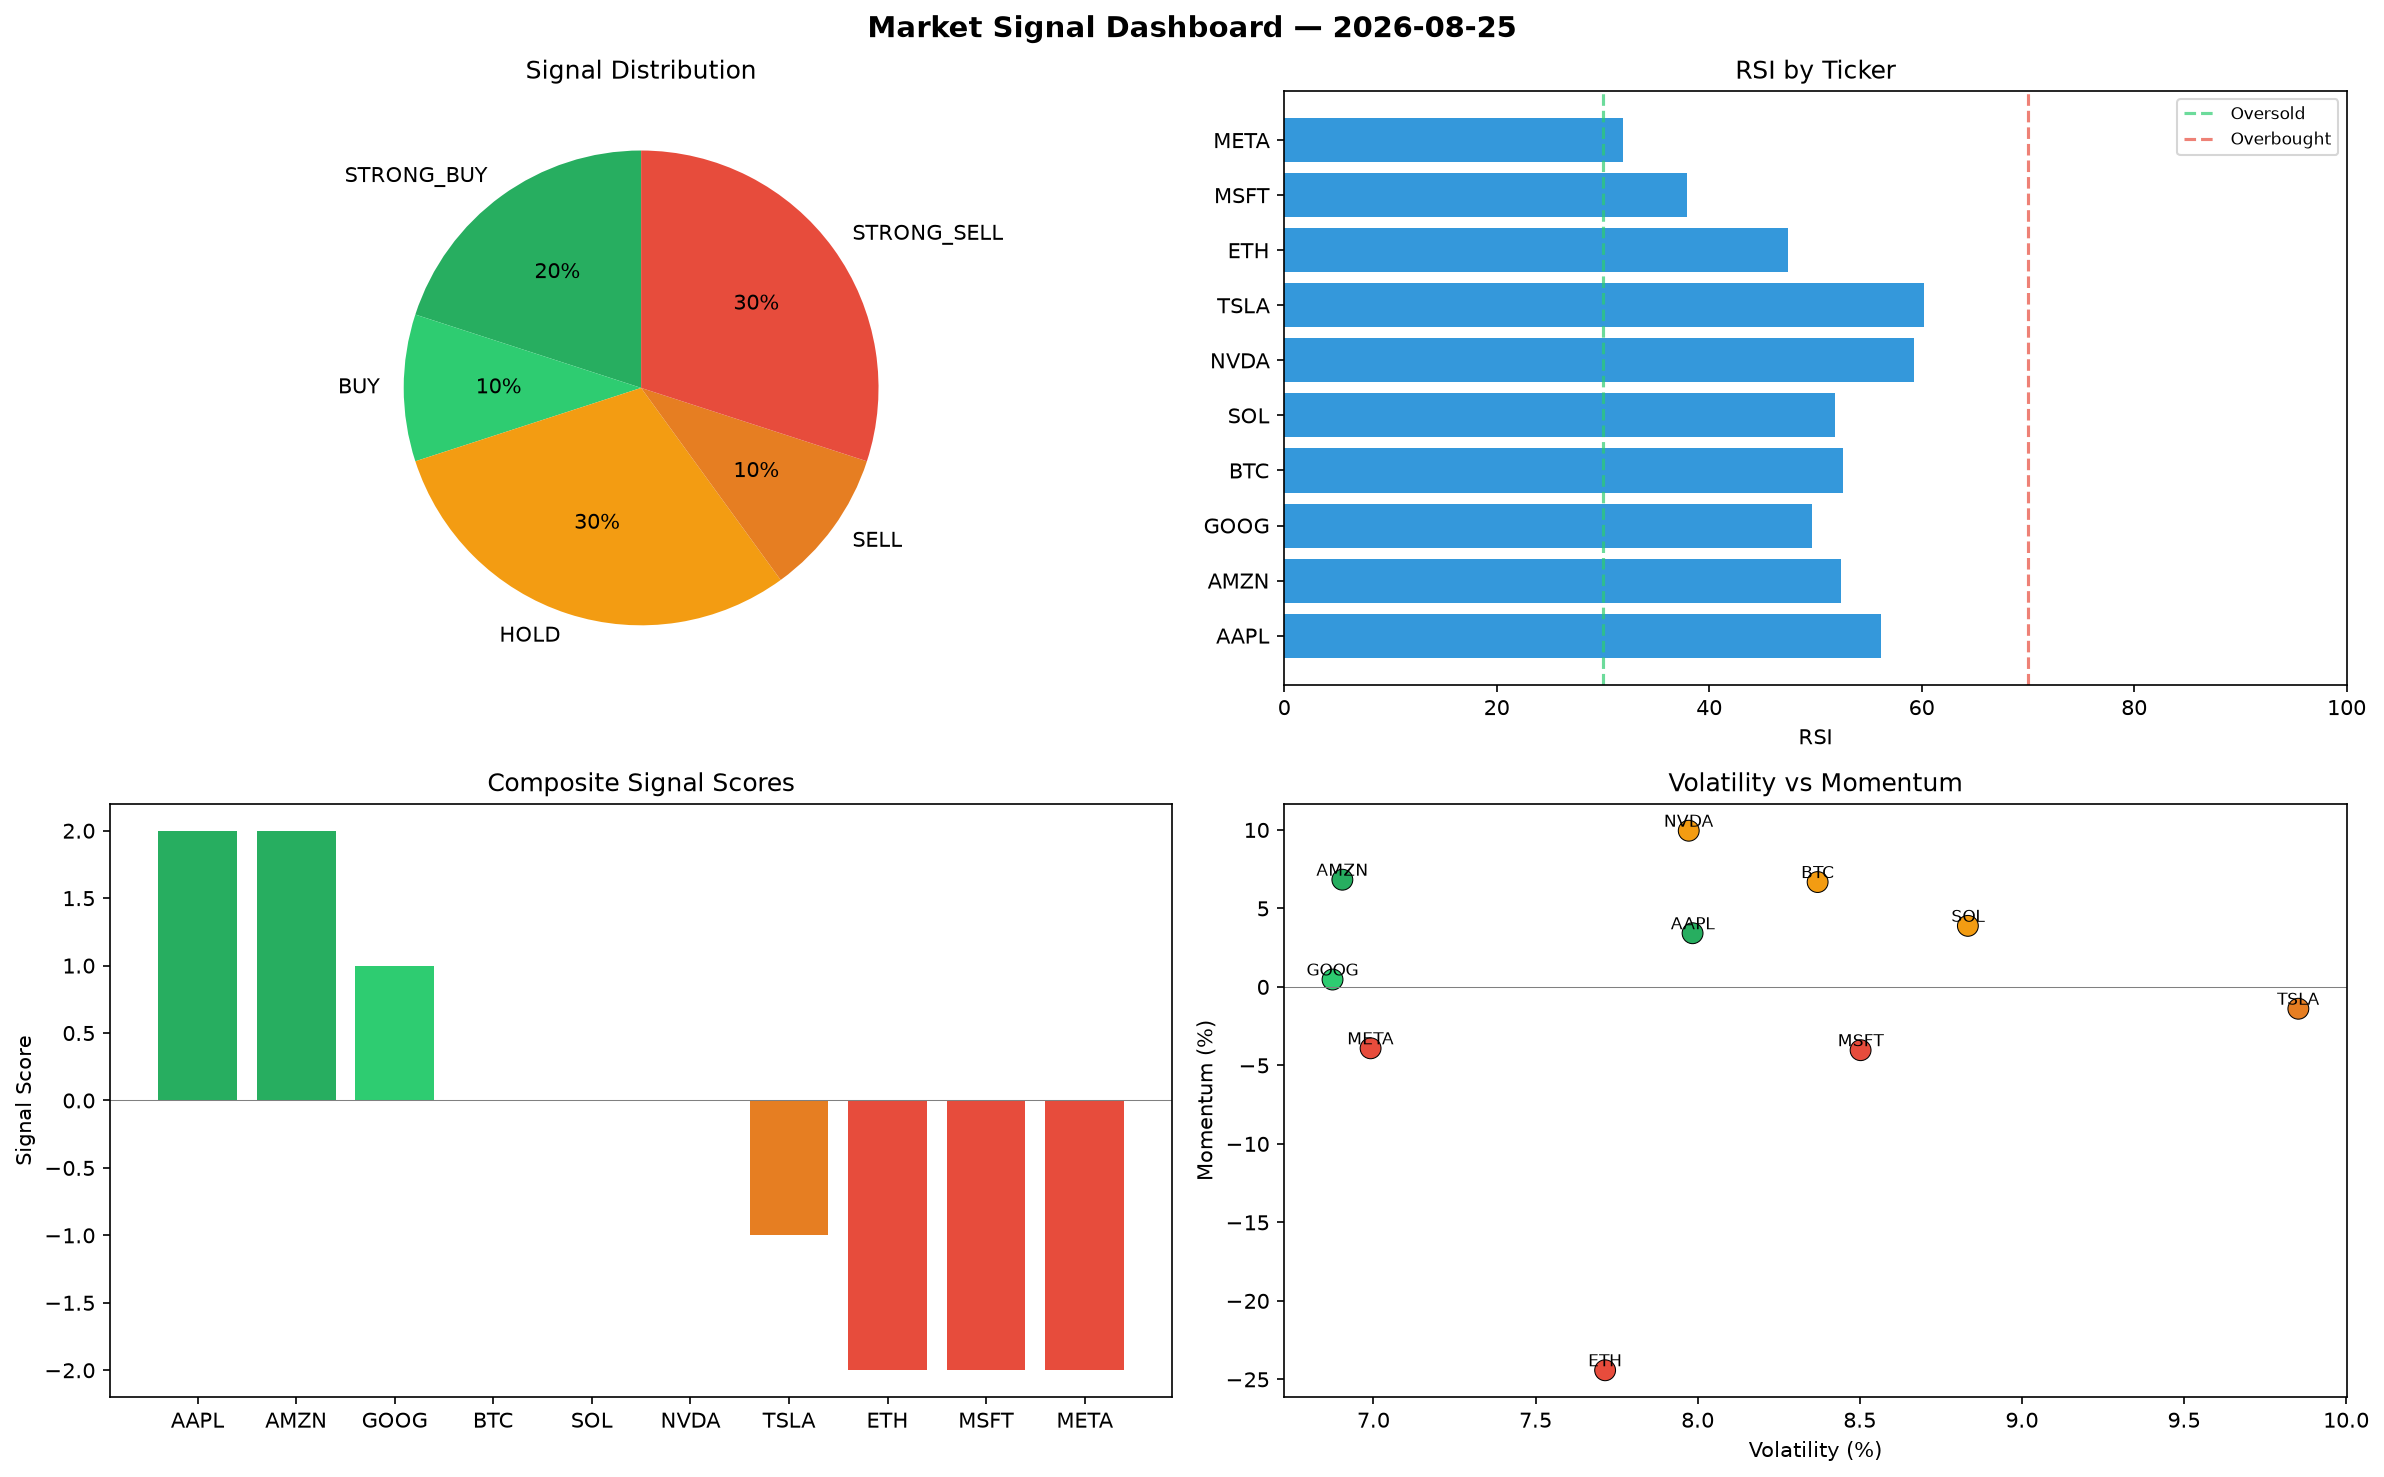
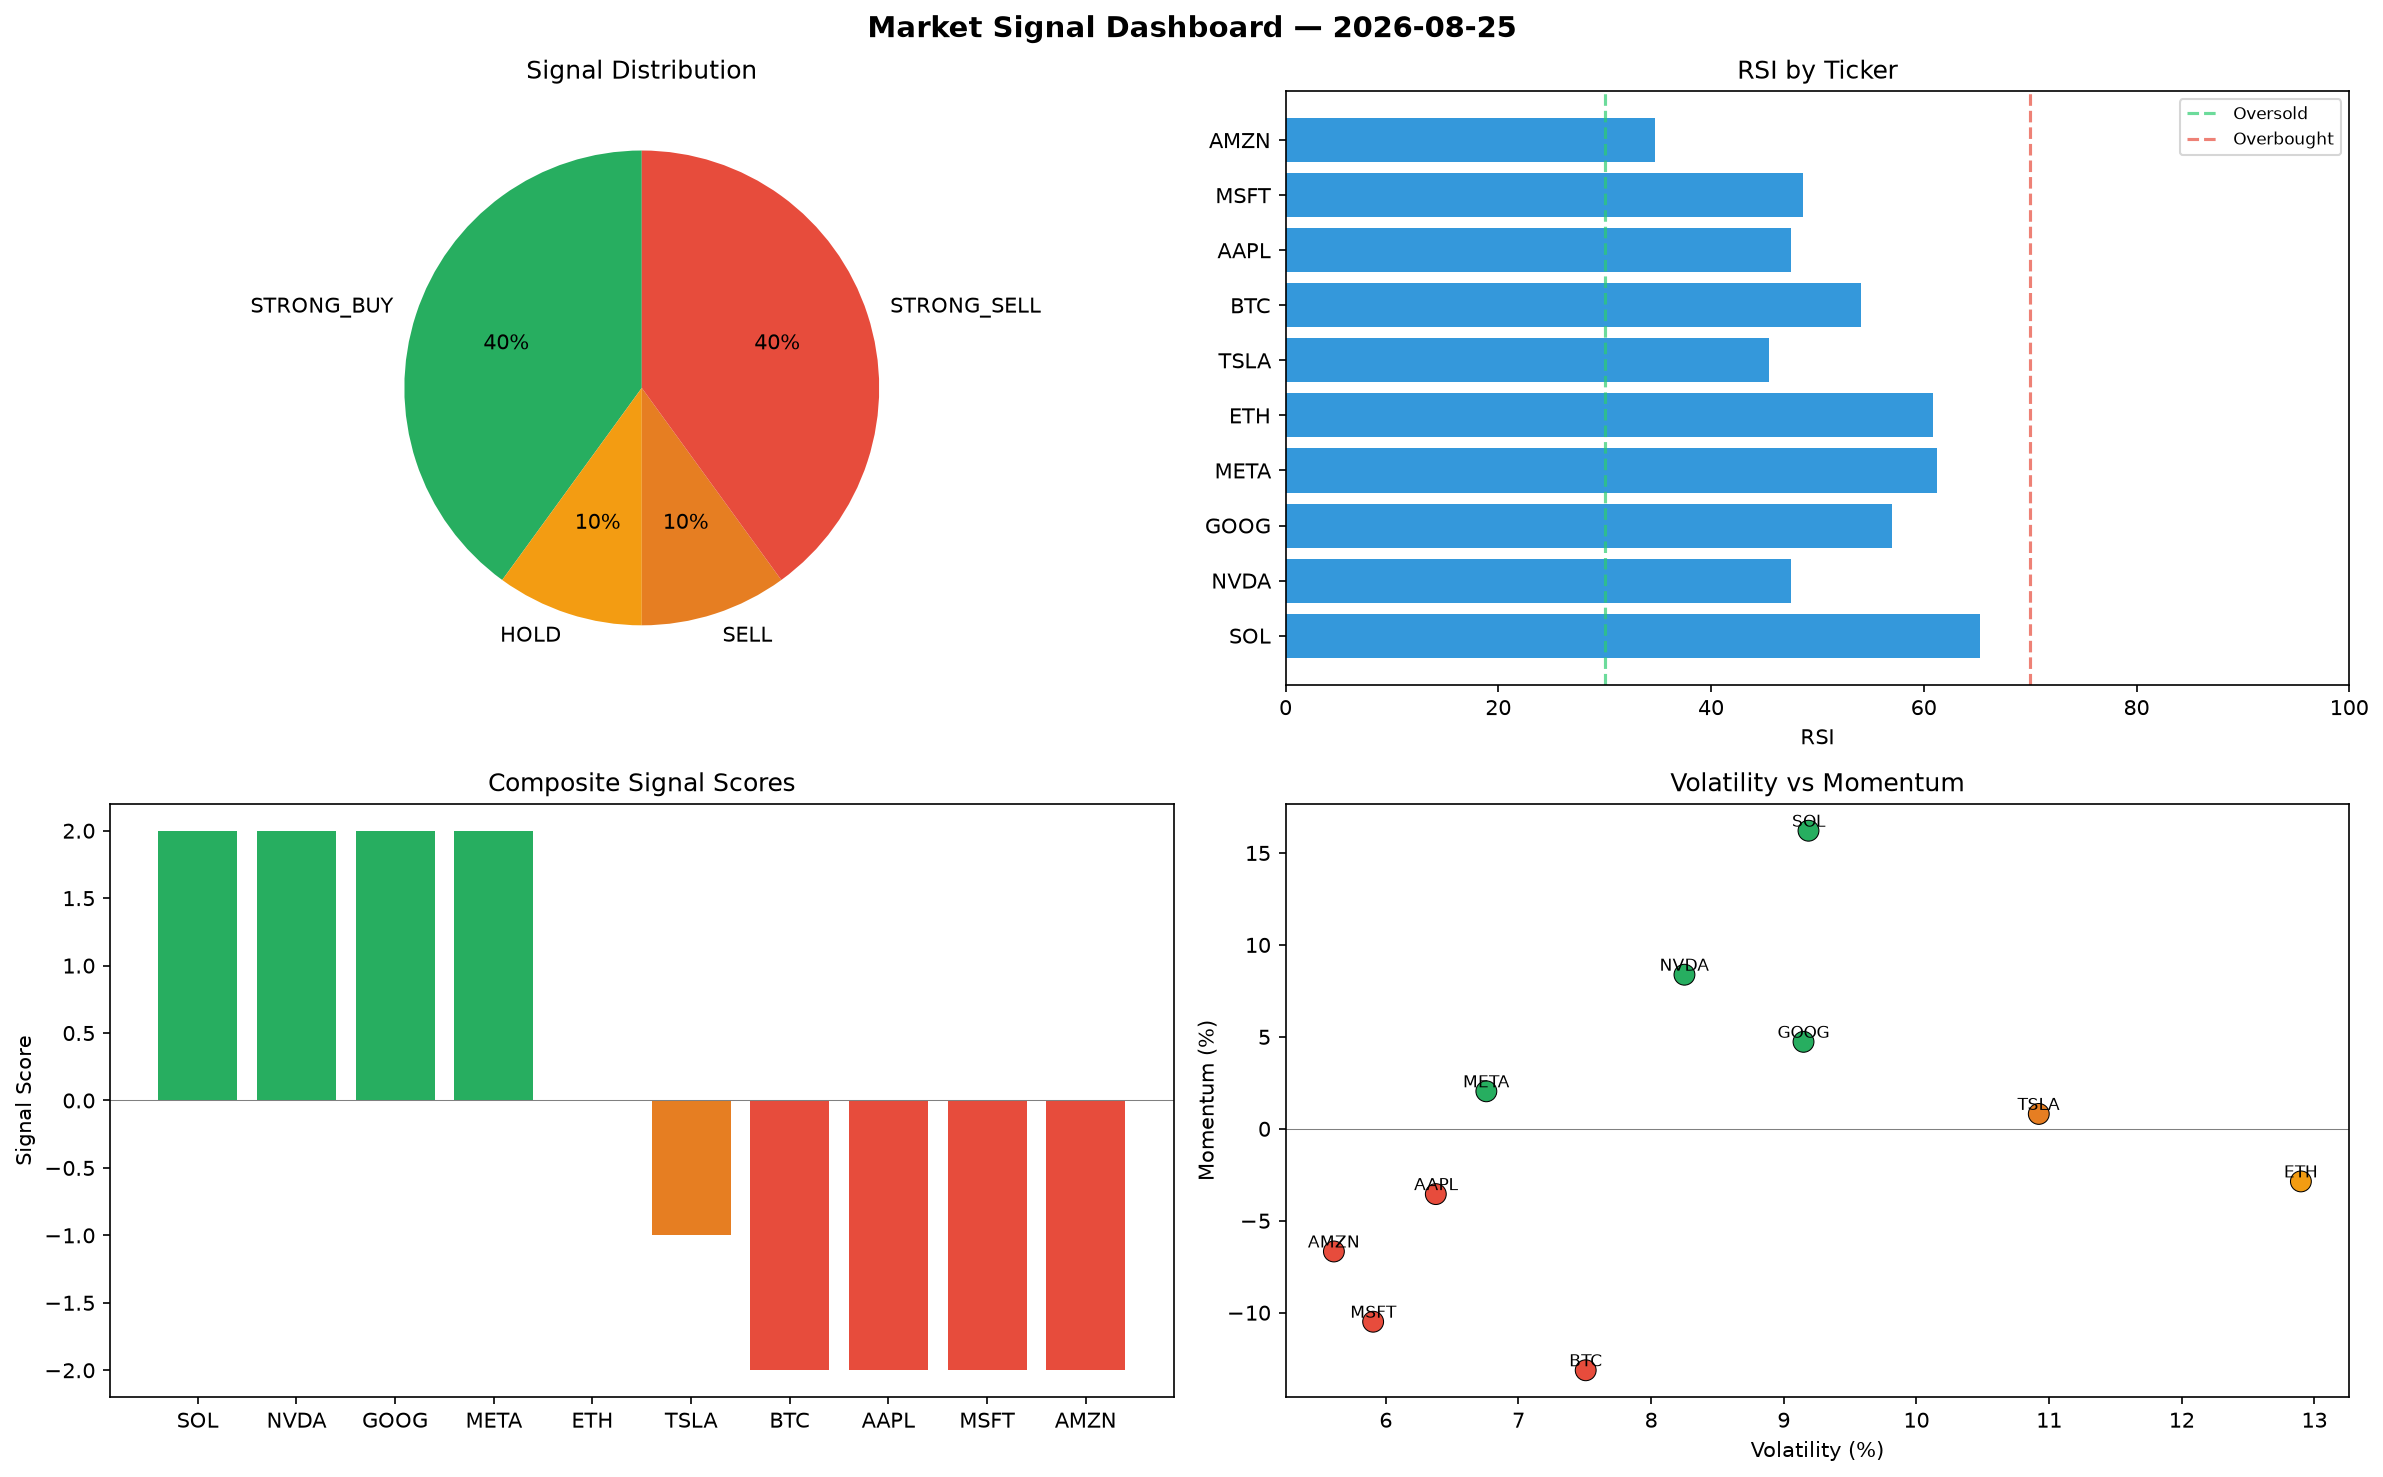
automated-bots: market signals 2026-08-25T15:21

diff --git a/logs/2026-08-25.md b/logs/2026-08-25.md
@@ -1,6 +1,6 @@
 # Market Signal Report — 2026-08-25
 
-**Run ID:** `7e613302fe` | **Buy:** 3 | **Sell:** 4 | **Hold:** 3
+**Run ID:** `b4dd92be48` | **Buy:** 4 | **Sell:** 5 | **Hold:** 1
 
 ![Dashboard](2026-08-25_dashboard.png)
 
@@ -8,28 +8,28 @@
 
 | Ticker | Price | Signal | Score | RSI | Momentum | Confidence |
 |--------|-------|--------|-------|-----|----------|------------|
-| AAPL | $3956.99 | **STRONG_BUY** | 2 | 56.18 | 0.0342 | 0.5 |
-| AMZN | $2482.07 | **STRONG_BUY** | 2 | 52.37 | 0.0683 | 0.5 |
-| GOOG | $2158.3 | **BUY** | 1 | 49.66 | 0.0047 | 0.25 |
-| BTC | $1362.34 | **HOLD** | 0 | 52.6 | 0.0668 | 0.0 |
-| SOL | $1000.22 | **HOLD** | 0 | 51.88 | 0.0389 | 0.0 |
-| NVDA | $2438.36 | **HOLD** | 0 | 59.25 | 0.0995 | 0.0 |
-| TSLA | $3792.94 | **SELL** | -1 | 60.19 | -0.0139 | 0.25 |
-| ETH | $1801.89 | **STRONG_SELL** | -2 | 47.45 | -0.2442 | 0.5 |
-| MSFT | $2859.52 | **STRONG_SELL** | -2 | 37.94 | -0.0403 | 0.5 |
-| META | $877.43 | **STRONG_SELL** | -2 | 31.9 | -0.0391 | 0.5 |
+| SOL | $5405.36 | **STRONG_BUY** | 2 | 65.28 | 0.1621 | 0.5 |
+| NVDA | $2451.07 | **STRONG_BUY** | 2 | 47.52 | 0.0838 | 0.5 |
+| GOOG | $3659.5 | **STRONG_BUY** | 2 | 56.99 | 0.0473 | 0.5 |
+| META | $2772.93 | **STRONG_BUY** | 2 | 61.21 | 0.0204 | 0.5 |
+| ETH | $3909.08 | **HOLD** | 0 | 60.9 | -0.0286 | 0.0 |
+| TSLA | $4247.15 | **SELL** | -1 | 45.47 | 0.0081 | 0.25 |
+| BTC | $3117.21 | **STRONG_SELL** | -2 | 54.14 | -0.1313 | 0.5 |
+| AAPL | $2340.53 | **STRONG_SELL** | -2 | 47.53 | -0.0355 | 0.5 |
+| MSFT | $3371.16 | **STRONG_SELL** | -2 | 48.61 | -0.1049 | 0.5 |
+| AMZN | $1491.25 | **STRONG_SELL** | -2 | 34.75 | -0.0667 | 0.5 |
 
 ## Delta vs Yesterday
 
 | Ticker | Today | Yesterday | Price Change | Signal Changed |
 |--------|-------|-----------|-------------|----------------|
-| AAPL | STRONG_BUY | STRONG_SELL | 📈 20.58% | ⚠ YES |
-| AMZN | STRONG_BUY | HOLD | 📈 59.1% | ⚠ YES |
-| GOOG | BUY | STRONG_BUY | 📉 -27.68% | ⚠ YES |
-| BTC | HOLD | STRONG_BUY | 📈 144.1% | ⚠ YES |
-| SOL | HOLD | HOLD | 📉 -68.3% | — |
-| NVDA | HOLD | SELL | 📉 -38.6% | ⚠ YES |
-| TSLA | SELL | STRONG_SELL | 📈 1.48% | ⚠ YES |
-| ETH | STRONG_SELL | STRONG_BUY | 📈 118.24% | ⚠ YES |
-| MSFT | STRONG_SELL | STRONG_SELL | 📈 238.15% | — |
-| META | STRONG_SELL | HOLD | 📉 -73.79% | ⚠ YES |
+| SOL | STRONG_BUY | HOLD | 📈 71.31% | ⚠ YES |
+| NVDA | STRONG_BUY | SELL | 📉 -38.28% | ⚠ YES |
+| GOOG | STRONG_BUY | STRONG_BUY | 📈 22.63% | — |
+| META | STRONG_BUY | HOLD | 📉 -17.17% | ⚠ YES |
+| ETH | HOLD | STRONG_BUY | 📈 373.46% | ⚠ YES |
+| TSLA | SELL | STRONG_SELL | 📈 13.63% | ⚠ YES |
+| BTC | STRONG_SELL | STRONG_BUY | 📈 458.53% | ⚠ YES |
+| AAPL | STRONG_SELL | STRONG_SELL | 📉 -28.68% | — |
+| MSFT | STRONG_SELL | STRONG_SELL | 📈 298.66% | — |
+| AMZN | STRONG_SELL | HOLD | 📉 -4.41% | ⚠ YES |
